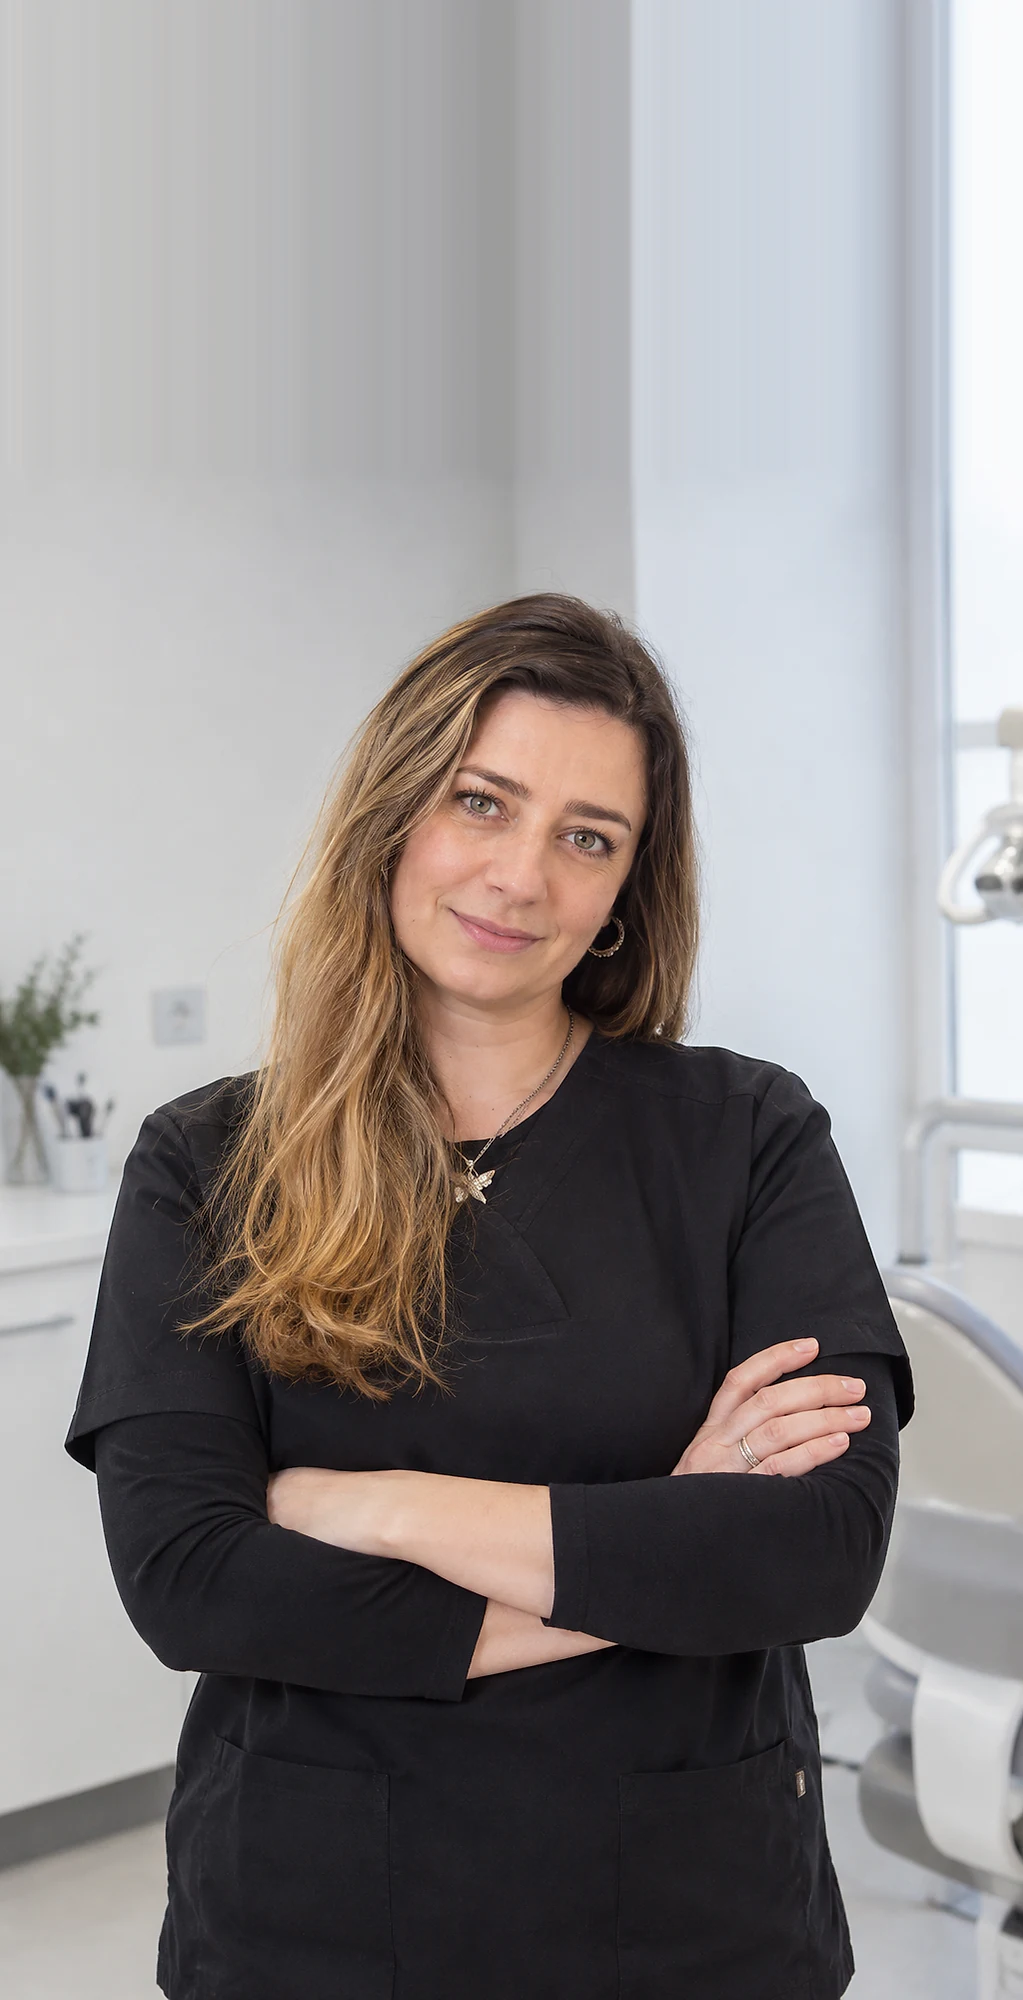
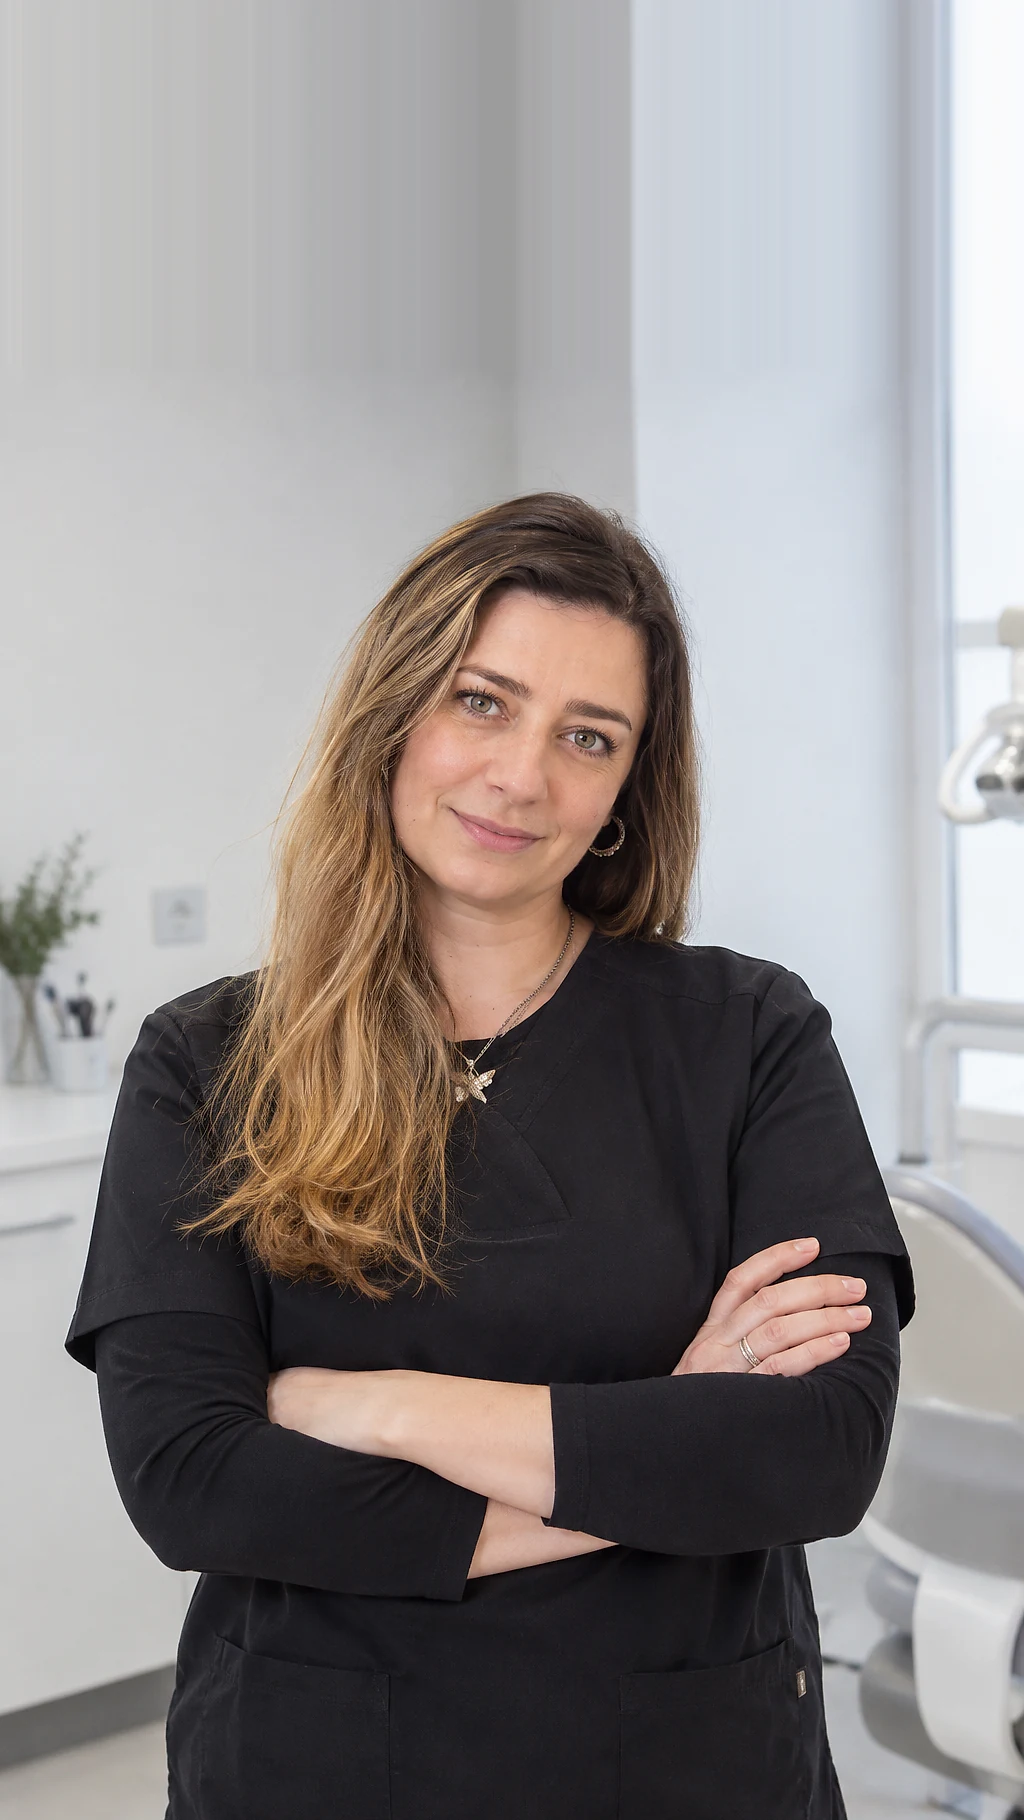
Alinea las fotos del equipo y pone la hojita de AURIS como icono
El acordeón de la home cambia de forma al pasar el cursor, y con
`object-cover` eso hace dos cosas que dependen de la foto y no del CSS: el
zoom del hover aparece sólo cuando el panel supera el ancho al que se dibuja
la foto, y la franja visible se va angostando, así que a quien tenga la
cabeza más arriba se la corta.

La foto 1 de Eugenia Villalobos quedaba casi cuadrada (0,994) y ese cruce no
llegaba nunca: su tarjeta era la única que no se agrandaba. Ariel y Santiago
tenían la cabeza en el 22,6% y el 23,3% del alto, por encima del borde de la
franja, y se les cortaba de 1920 para arriba.

Las once fotos 1 pasan a tener la misma proporción (0,562) y la cabeza en el
mismo 27% del alto, resuelto en `ENCUADRE`. Con el foco del acordeón puesto
en ese mismo 27%, la cabeza cae siempre en el 27% del panel: la fracción
visible se cancela en la cuenta, así que no se mueve ni al expandirse ni al
cambiar de pantalla. Medido a 1280, 1920 y 2560: zoom idéntico en las once y
la cabeza clavada en 121px. Claudia ya no necesita foco propio.

De paso, en `optimize-images.mjs` el encuadre entra en la huella del
manifiesto —cambiar un recorte ya no exige borrar el `.webp` a mano—, el
recorte de arriba va antes de estirar el fondo —el aplique de la pared de la
toma de Eugenia dejaba un chorreado vertical— y el reencuadre perdió un
`toBuffer()` intermedio, que era una generación de pérdida de más.

En "Sobre el centro": las dos fotos del teléfono apuntaban a
[…]

diff --git a/src/app/(marketing)/sobre-el-centro/page.tsx b/src/app/(marketing)/sobre-el-centro/page.tsx
@@ -20,14 +20,21 @@ export const metadata: Metadata = {
   alternates: { canonical: "/sobre-el-centro" },
 };
 
-/** Fotos que acompañan la historia, en el orden en que se entra al centro. */
+/**
+ * Fotos que acompañan la historia, en el orden en que se entra al centro.
+ *
+ * Sólo se ven hasta `lg`, donde la historia va como lista vertical. Apuntaban
+ * a `/images/galeria/`, una carpeta que no existe en `public/`: en el teléfono
+ * las dos daban 400 y quedaban dos rectángulos vacíos. Son las mismas tomas,
+ * buscadas donde sí están.
+ */
 const storyPhotos = [
   {
-    src: "/images/galeria/ingreso-01.webp",
-    alt: "Cartel de AURIS en el frente del centro",
+    src: "/images/instalaciones/ingreso/entrada1.webp",
+    alt: "Frente del centro, con el cartel de AURIS junto a la puerta",
   },
   {
-    src: "/images/galeria/recepcion-02.webp",
+    src: "/images/instalaciones/ingreso/entrada4.webp",
     alt: "Sala de espera con el logo de AURIS en la pared",
   },
 ];
@@ -286,7 +293,13 @@ export default function SobreElCentroPage() {
                 src="/images/servicios/portada/taller-de-adultos-mayores.webp"
                 alt="Encuentro del taller de adultos mayores en el centro"
                 fill
-                sizes="(max-width: 1024px) 90vw, 520px"
+                // La caja es 4:3 y la foto 16:9, así que `object-cover` la
+                // ajusta por el alto y la dibuja un tercio más ancha que la
+                // caja: 520px de caja son 693px de foto. `sizes` tiene que
+                // declarar ese ancho y no el de la caja, porque si no el
+                // navegador baja una variante más chica y la estira —que es
+                // de donde venía el pixelado—.
+                sizes="(max-width: 1024px) 120vw, 700px"
                 className="object-cover"
               />
             </div>

diff --git a/src/components/sections/TeamCarousel.tsx b/src/components/sections/TeamCarousel.tsx
@@ -125,7 +125,20 @@ export function TeamCarousel() {
                 }}
                 vtSlug={professional.slug}
                 src={professional.photoUrl}
-                objectPosition={professional.fotoFoco}
+                // El 27% es donde está la cabeza dentro de la foto —todas las
+                // fotos 1 se recortan a esa altura, ver `ENCUADRE` en
+                // `scripts/optimize-images.mjs`—, y poner el foco en el mismo
+                // número es lo que la deja clavada ahí.
+                //
+                // Con `object-cover`, la cabeza cae en `(h - f(1-V)) / V` del
+                // panel, donde `h` es su altura dentro de la foto, `f` el foco
+                // y `V` la fracción de foto que se ve. Con `f = h` eso se
+                // simplifica a `h` y `V` desaparece: da igual cuánto recorte
+                // el panel al ensancharse o qué tan ancha sea la pantalla, la
+                // cabeza queda siempre en el 27% del panel. Es el único lugar
+                // del sitio donde hace falta, porque es el único donde la caja
+                // cambia de forma; en el listado y en la ficha es fija.
+                objectPosition={professional.fotoFoco ?? "center 27%"}
                 alt={`Retrato de ${professional.name}`}
                 sizes="(max-width: 768px) 16rem, 420px"
                 className="absolute inset-0 size-full rounded-3xl"

diff --git a/src/components/sections/HistoryTimeline.tsx b/src/components/sections/HistoryTimeline.tsx
@@ -445,10 +445,13 @@ export function HistoryTimeline() {
                             src={milestone.image}
                             alt={milestone.alt}
                             fill
-                            // El dorso de la tarjeta es vertical y la foto
-                            // apaisada (1.60), así que manda el alto: se dibuja
-                            // bastante más ancha que la tarjeta.
-                            sizes="800px"
+                            // El dorso mide 504x292 y todas estas fotos son
+                            // más apaisadas o más verticales que esa caja, así
+                            // que `object-cover` siempre las ajusta por el
+                            // ancho: lo que hay que pedir son esos 504px y no
+                            // 800, que en una pantalla retina hacía bajar la
+                            // variante de 1920 para nada.
+                            sizes="520px"
                             className="object-cover"
                           />
                         </div>

diff --git a/src/lib/data/about.ts b/src/lib/data/about.ts
@@ -72,8 +72,10 @@ export const milestones: Milestone[] = [
     title: "El enfoque se extiende",
     description:
       "La misma lógica llega a la odontopediatría funcional, donde la odontología se complementa con fonoaudiología y kinesiología para acompañar el desarrollo de los chicos desde temprano. Mirar cómo respira, cómo traga y cómo mastica dice tanto como mirarle los dientes.",
-    image: "/images/profesionales/carla-fernandez/carla-3.webp",
-    alt: "La Dra. Carla Fernández en el consultorio de odontopediatría, con los modelos que usa para explicarles a los chicos",
+    // La 5 y no la 3: es la misma escena, pero en la 3 está mirando hacia
+    // abajo y el recorte apaisado de la tarjeta le corta la frente.
+    image: "/images/profesionales/carla-fernandez/carla-5.webp",
+    alt: "La Dra. Carla Fernández enseñando el cepillado con el modelo que usa para explicarles a los chicos",
   },
   {
     when: "Hoy",

diff --git a/src/lib/data/professionals.ts b/src/lib/data/professionals.ts
@@ -158,11 +158,8 @@ const equipo: Professional[] = [
     name: "Dra. Claudia Tomasi",
     // Su foto 1 es de cuerpo entero y sin aire arriba: el reencuadre que la
     // deja como el resto del equipo se hace en el archivo, no acá (ver
-    // `ENCUADRE` en `scripts/optimize-images.mjs`).
-    //
-    // Al pasar el cursor la tarjeta se ensancha y la foto pasa a recortarse a
-    // lo alto: sin esto el recorte arranca por debajo de su cabeza.
-    fotoFoco: "center 40%",
+    // `ENCUADRE` en `scripts/optimize-images.mjs`). Con la cabeza ya en el
+    // mismo 27% que las demás, no necesita un foco propio.
     specialty: "Odontóloga estética",
     areaSlug: "odontologia-estetica",
     serviceSlug: "odontologia",
